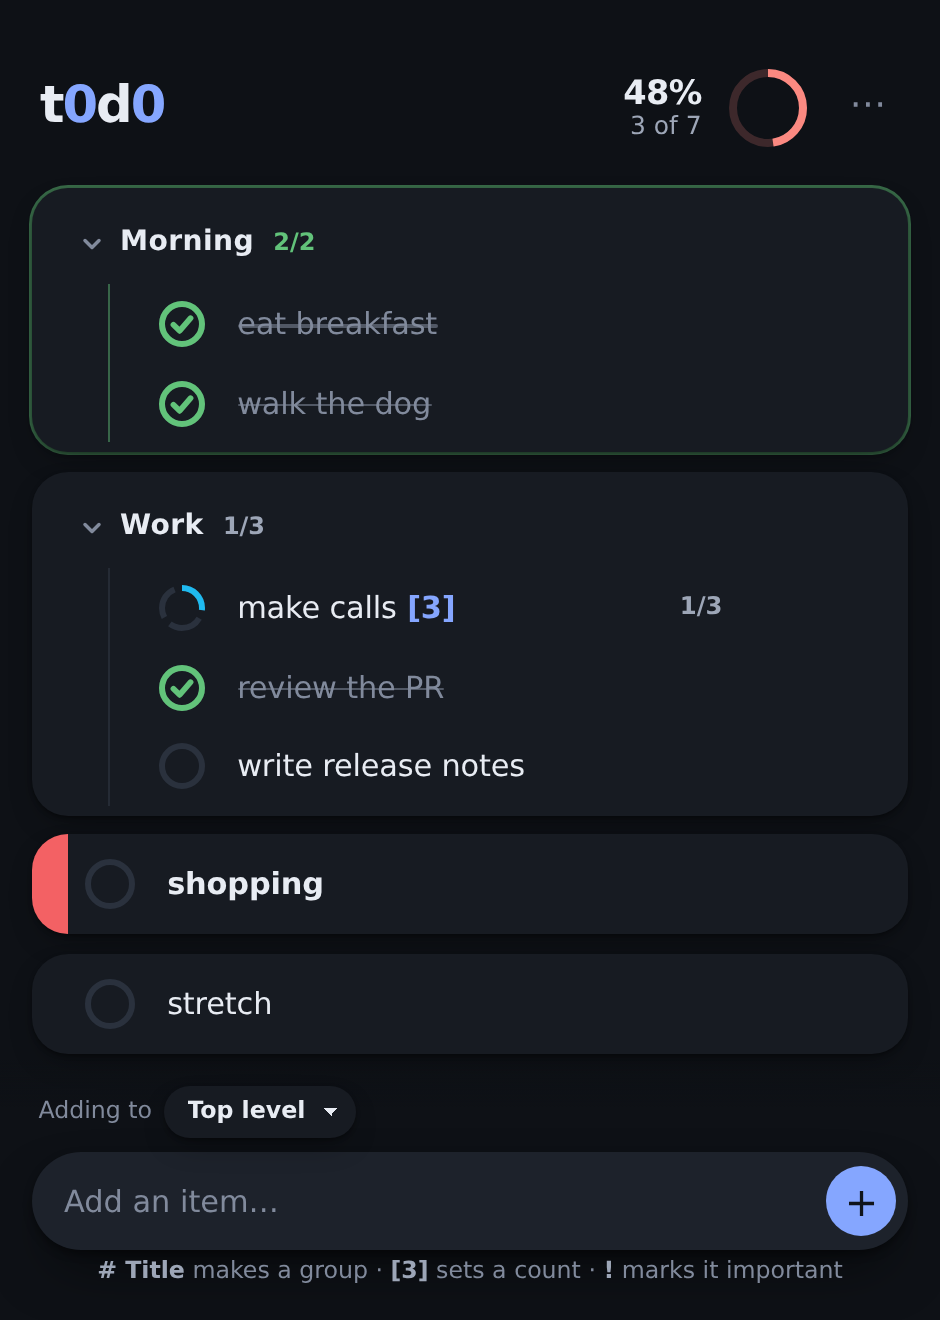
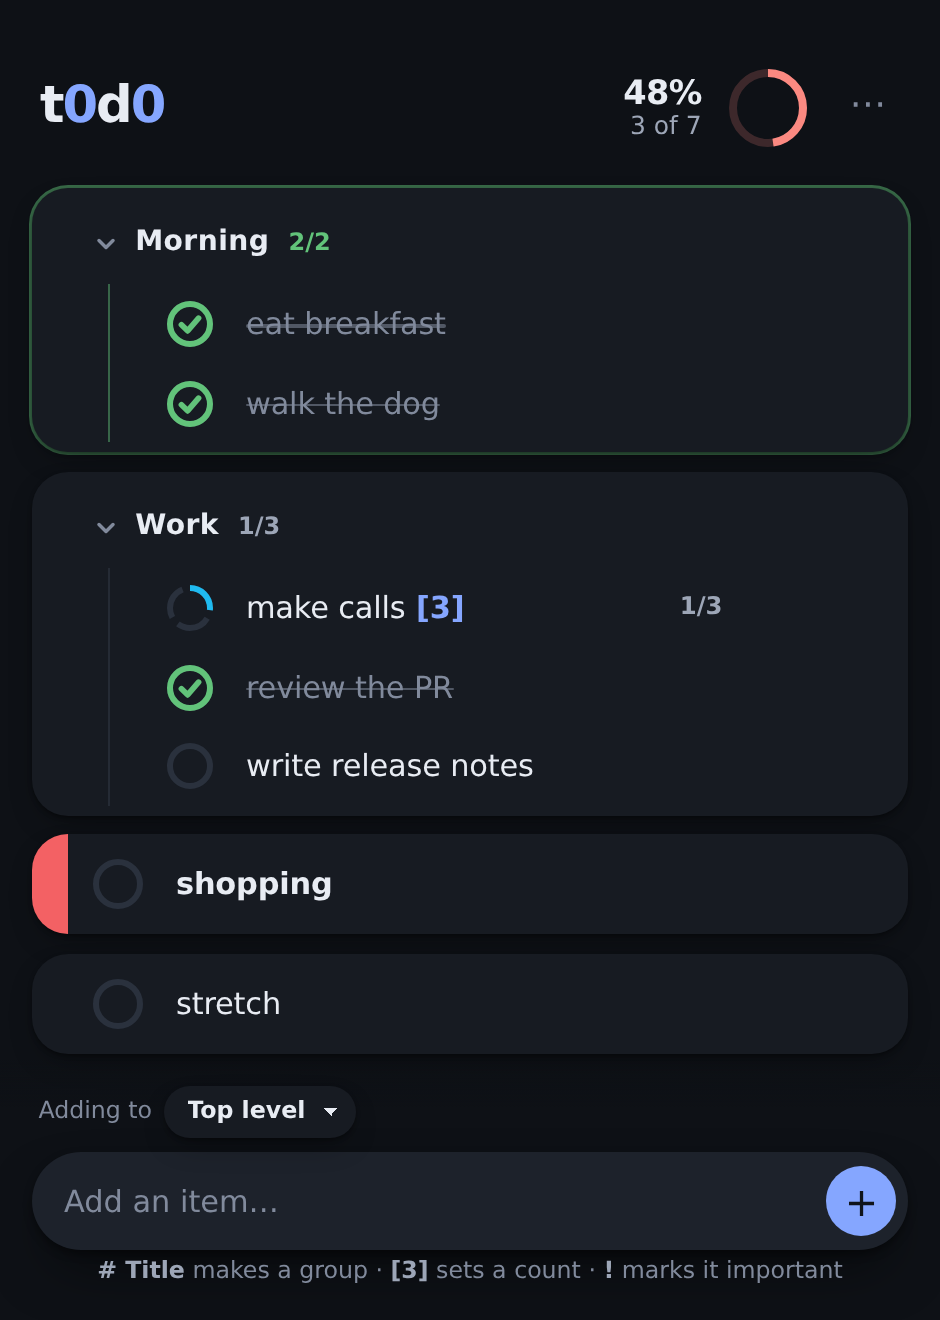
fix(marks): derive every leading padding from the mark it has to clear

diff --git a/tests/e2e/important.spec.ts b/tests/e2e/important.spec.ts
@@ -381,3 +381,74 @@ test("a marked item still sinks when it is finished", async ({ page }) => {
     )
     .toEqual(["water plants", "call the bank"]);
 });
+
+/*
+ * The mark is drawn on the row's leading edge, and so is the first control —
+ * the grip, which on a touch device stays in the flow because there it is
+ * always visible and has to be somewhere real. So the two have to be measured
+ * against each other, and this went wrong in both places at once: a group's
+ * grip was drawn *over* its strip (-1.2px) and a root row's cleared it by two,
+ * which reads as touching. Every leading padding is now derived from the mark's
+ * own width plus --mark-clear; this is what says so.
+ *
+ * Asserted as a floor rather than the exact number, so the token can be tuned
+ * without moving the guarantee.
+ */
+test("a row's leading control clears the mark beside it", async ({ page }) => {
+  await seedStorage(page, {
+    v: 1,
+    openedAt: null,
+    list: [
+      { kind: "task", id: "k", text: "call the bank", target: 1, count: 0, important: true },
+      {
+        kind: "group",
+        id: "g",
+        title: "Admin",
+        collapsed: false,
+        important: true,
+        items: [{ kind: "task", id: "a1", text: "file it", target: 1, count: 0, important: true }],
+      },
+      {
+        // Plain, so the item inside it wears its own pill to measure against.
+        kind: "group",
+        id: "gp",
+        title: "Errands",
+        collapsed: false,
+        important: false,
+        items: [
+          { kind: "task", id: "n", text: "post it", target: 1, count: 0, important: true },
+          { kind: "task", id: "np", text: "sweep up", target: 1, count: 0, important: false },
+        ],
+      },
+    ],
+  });
+
+  const clearance = await page.evaluate(() => {
+    const radius = parseFloat(
+      getComputedStyle(document.documentElement).getPropertyValue("--r-card"),
+    );
+    const measure = (id: string, markWidth: number): number => {
+      const row = document.querySelector<HTMLElement>(`[data-id="${id}"]`)!;
+      const bar = row.querySelector<HTMLElement>(":scope > .ghead") ?? row;
+      /*
+       * Whichever control actually leads the row: on a pointer device the grip
+       * leaves the flow for the margin and the tick or chevron leads instead.
+       */
+      const lead = [...bar.children].find((el) => {
+        const { position } = getComputedStyle(el);
+        return position !== "absolute" && position !== "fixed";
+      }) as HTMLElement;
+      return lead.getBoundingClientRect().left - (row.getBoundingClientRect().left + markWidth);
+    };
+    // A card's mark is exactly its corner; a nested row's pill is a third of it.
+    return {
+      root: measure("k", radius),
+      group: measure("g", radius),
+      nested: measure("n", radius / 3),
+    };
+  });
+
+  expect(clearance.root).toBeGreaterThanOrEqual(4);
+  expect(clearance.group).toBeGreaterThanOrEqual(4);
+  expect(clearance.nested).toBeGreaterThanOrEqual(4);
+});

diff --git a/src/styles/app.css b/src/styles/app.css
@@ -134,22 +134,32 @@
   controls all carry their own.
 */
 .group {
+  /* Named because the header's leading padding is measured back from the card's
+     edge and has to subtract it. */
+  --card-pad: 0.55rem;
+
   position: relative;
   background: var(--card);
   border-radius: var(--r-card);
   box-shadow: var(--shadow-card), var(--edge);
-  padding: 0.55rem 0.55rem 0.3rem;
+  padding: var(--card-pad) var(--card-pad) 0.3rem;
 }
 
 .group.clear {
   --edge: 0 0 0 1.5px oklch(var(--ring-l) var(--ring-c) 150 / 50%);
 }
 
+/*
+  The leading padding is the card's clearance less what the card already spends,
+  so the header's first control starts where a root row's does. Hand-set it was
+  16.8px against an 18px mark: the chevron, and on a phone the grip in front of
+  it, were drawn over the strip.
+*/
 .ghead {
   display: flex;
   align-items: center;
   gap: 0.6rem;
-  padding: 0.4rem 0.5rem 0.5rem;
+  padding: 0.4rem 0.5rem 0.5rem calc(var(--lead-card) - var(--card-pad));
 }
 
 .chev {
@@ -229,7 +239,8 @@
   display: flex;
   align-items: center;
   gap: 0.6rem;
-  padding: 0.42rem 0.5rem;
+  /* Leading padding clears the pill a nested row wears — see --lead-nested. */
+  padding: 0.42rem 0.5rem 0.42rem var(--lead-nested);
   border-radius: var(--r-row);
   transition: background 0.18s;
 }
@@ -238,12 +249,14 @@
   background: var(--card);
   box-shadow: var(--shadow-card), var(--edge);
   /*
-   * The leading padding clears --r-card, because that is how wide the
-   * importance strip runs: at the old 0.75rem the tick and the in-flow grip sat
-   * six pixels inside it, drawn over the colour. Unconditional rather than only
-   * on a marked row, so nothing shifts when the mark goes on or comes off.
+   * The leading padding clears the importance strip, which is --r-card wide, by
+   * --mark-clear: at the old 0.75rem the tick and the in-flow grip sat six
+   * pixels inside it, drawn over the colour, and at 1.25rem they cleared it by
+   * two — close enough to read as touching, which on a phone is where the grip
+   * lives. Unconditional rather than only on a marked row, so nothing shifts
+   * when the mark goes on or comes off.
    */
-  padding: 0.7rem 0.75rem 0.7rem 1.25rem;
+  padding: 0.7rem 0.75rem 0.7rem var(--lead-card);
   border-radius: var(--r-card);
 }
 

diff --git a/src/styles/tokens.css b/src/styles/tokens.css
@@ -92,6 +92,18 @@
 
   --r-card: 18px;
   --r-row: 12px;
+
+  /*
+    The clearance a row's leading control keeps from the importance mark. Every
+    leading padding is measured from the mark's own width plus this, rather than
+    guessed: at a hand-set value the group's chevron and, on a phone, its grip
+    sat *inside* the strip, and a root row cleared it by two pixels.
+  */
+  --mark-clear: 0.4rem;
+  /* The mark a card wears is exactly its corner; a nested row's pill is a third
+     of it. See the important section in app.css. */
+  --lead-card: calc(var(--r-card) + var(--mark-clear));
+  --lead-nested: calc(var(--r-card) / 3 + var(--mark-clear));
 }
 
 @media (prefers-color-scheme: dark) {

diff --git a/CLAUDE.md b/CLAUDE.md
@@ -162,12 +162,17 @@ Invariants worth defending in review:
   are the same kind of thing to the eye — two cards side by side in one list. A nested
   row has no card, and a strip that wide would swamp something half a card tall, so it
   takes a slim `::before` pill instead.
-- **A root card's leading padding has to clear `--r-card`**, which is why it is 1.25rem
-  where the others are 0.75rem. At the narrower value the tick and the in-flow grip sat
-  six pixels inside the strip and were drawn over the colour — invisible on a pointer
-  device, where the grip is out in the margin, and obvious on a phone. It is
-  unconditional rather than only on a marked row, so nothing shifts when the mark goes
-  on or comes off.
+- **Every leading padding is derived from the mark, never hand-set.** `--mark-clear` is
+  the gap a row's first control keeps from it, and `--lead-card` / `--lead-nested` add it
+  to the mark's own width — `--r-card` for a card, a third of that for a nested row's
+  pill. Hand-set, all three were wrong and none of it was visible on a pointer device,
+  where the grip is out in the margin: a root row cleared the strip by two pixels, and a
+  group's header, whose padding is spent twice over (the card's, then the header's), put
+  its chevron and — on a phone, where the grip is in the flow — its grip _inside_ the
+  colour. `.group` names its own `--card-pad` so `.ghead` can subtract it. The paddings
+  are unconditional rather than only on a marked row, so nothing shifts when the mark
+  goes on or comes off, and `tests/e2e/important.spec.ts` measures the clearance on
+  whichever control actually leads the row.
 - **Do not draw the group's strip any other way.** Both alternatives were tried and both
   fought the corner: an inset `box-shadow` curves _both_ sides and reads as a fragment
   of the frame, and a pseudo-element cannot match an 18px corner at all, because a
